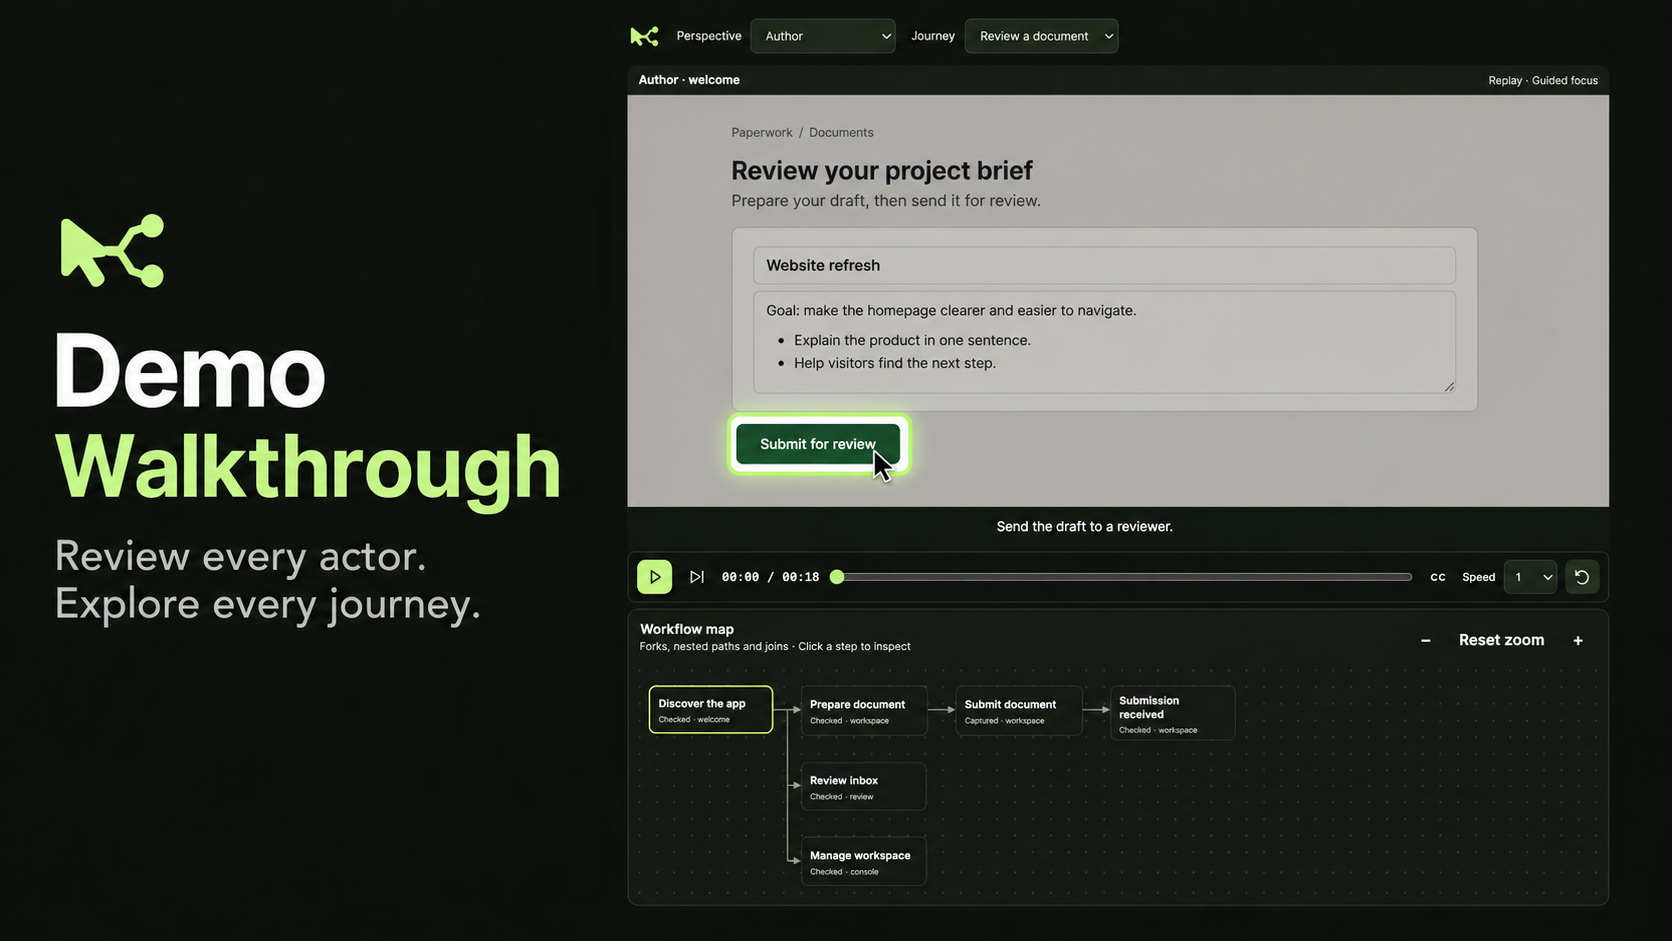
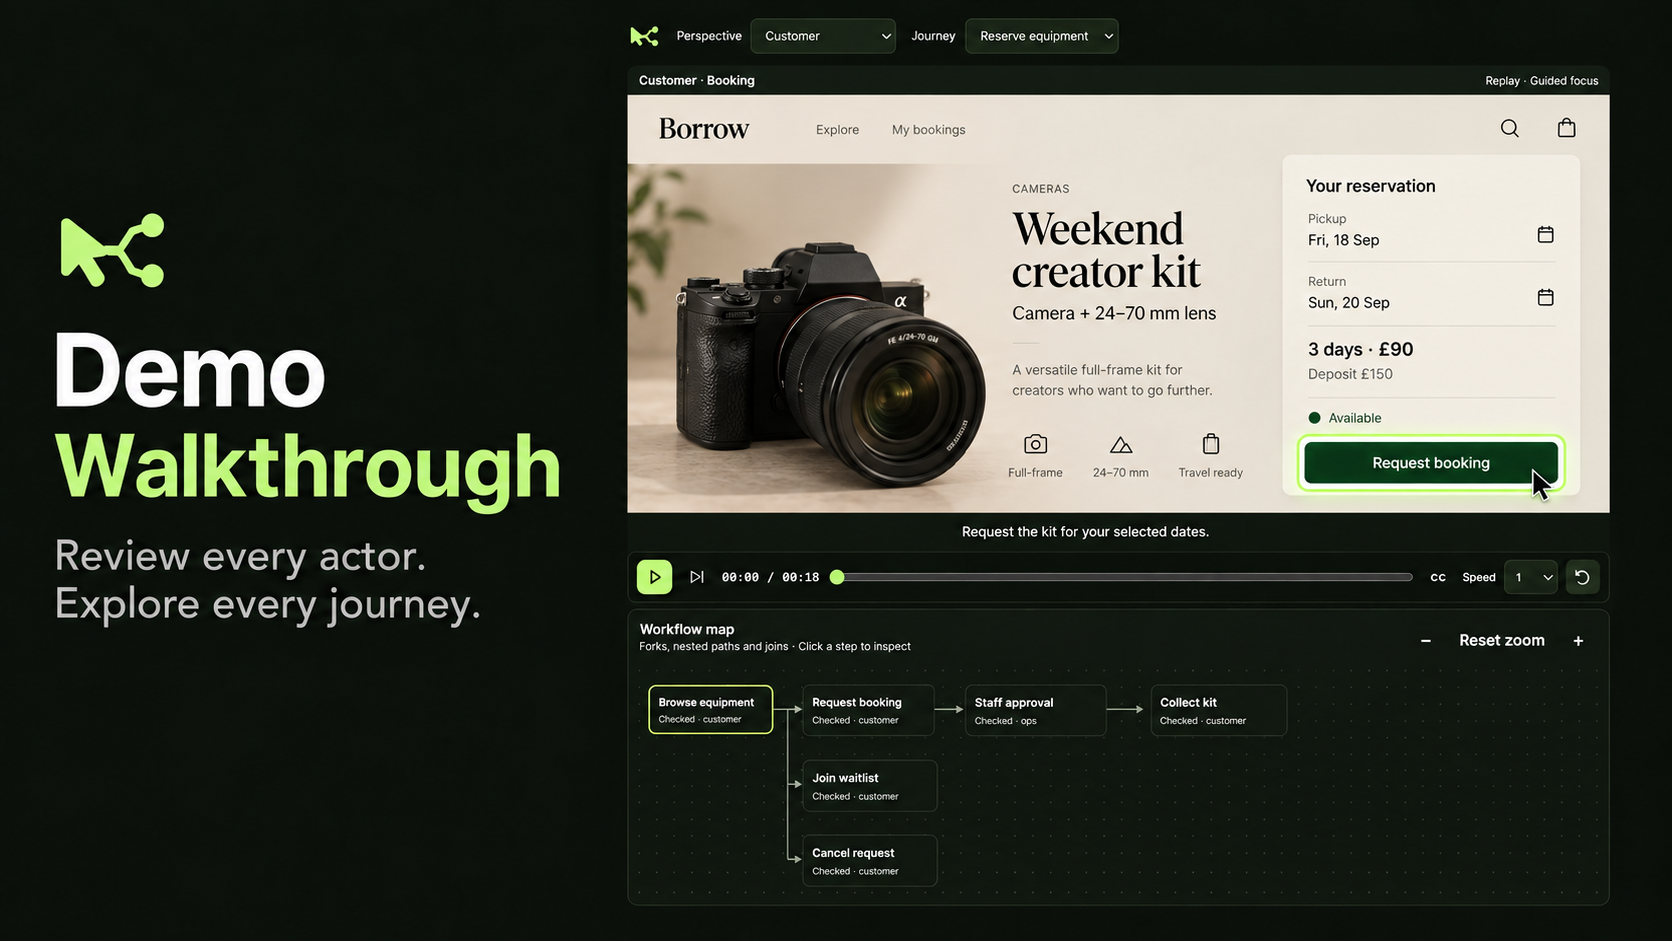
Use Borrow rental journey illustration as repository cover

diff --git a/README.md b/README.md
@@ -1,8 +1,8 @@
 # Demo Walkthrough
 
-![Demo Walkthrough: actor-based product journeys and a branching workflow map](assets/github-cover.png)
+![Demo Walkthrough showing a fictional equipment-rental journey and branching workflow map](assets/github-cover.png)
 
-*Illustrative cover. The framework is experimental.*
+*Illustrative cover featuring Borrow, a fictional rental app. The runnable reference demo uses a document workflow.*
 
 An experimental product demonstration studio with one consistent UI for actor-based journeys across landing pages, signed-in apps, administration tools and provider screens.
 
